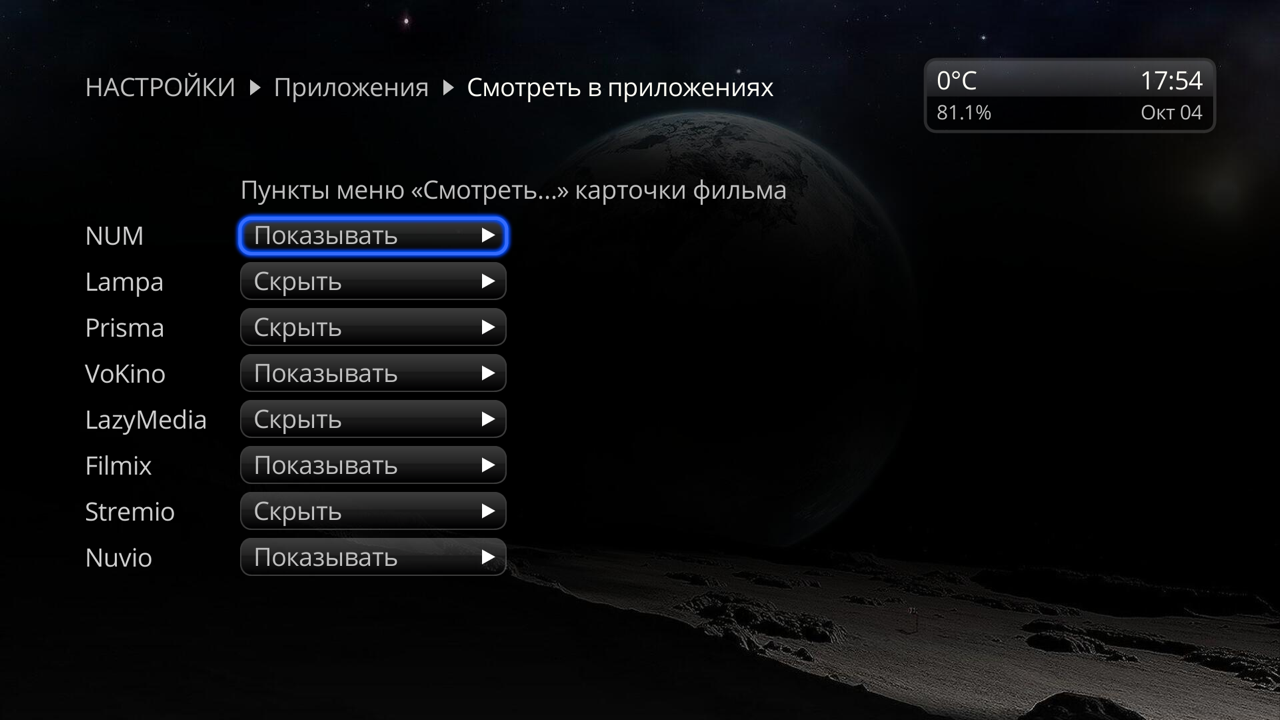
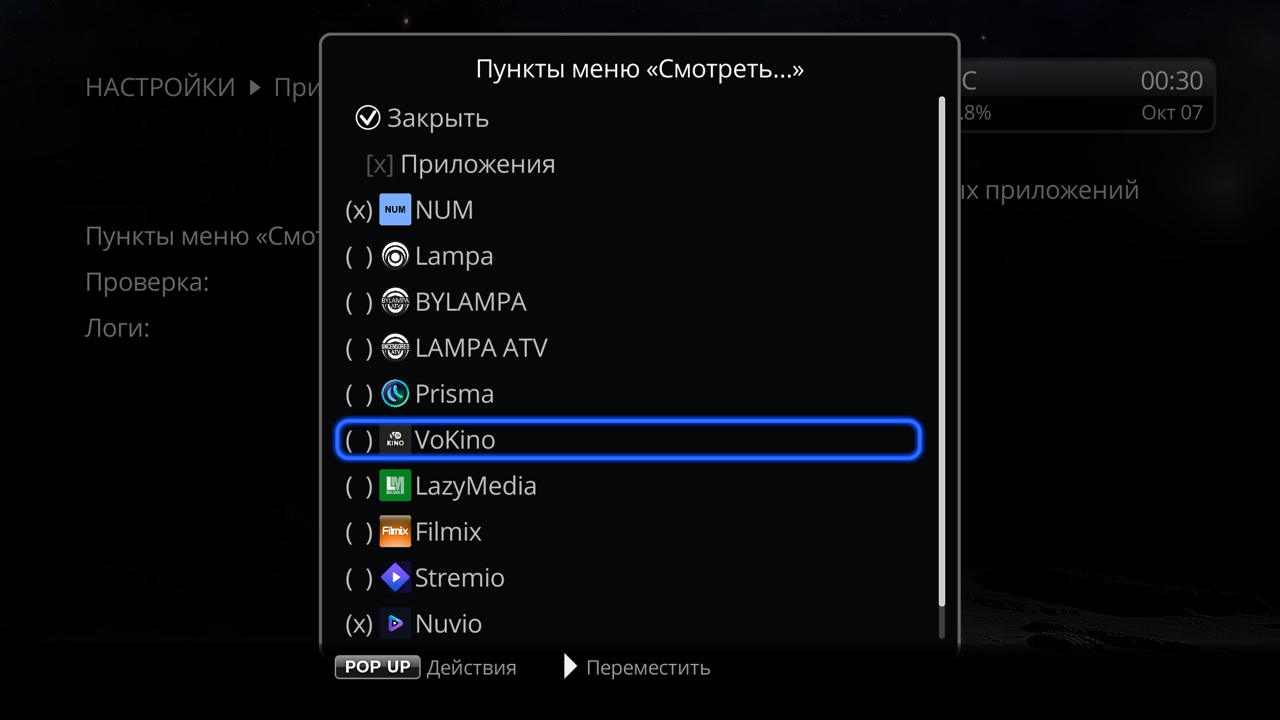
README: скриншот экрана 0.5.0 — диалог выбора пунктов

diff --git a/README.md b/README.md
@@ -6,7 +6,7 @@
 
 Плагин для Dune HD: добавляет пункты в меню **«Смотреть…»** карточки фильма или сериала в каталоге **«Фильмы»** Дюны. Каждый пункт открывает тот же фильм или сериал (или его поиск) в приложении для Android TV, а пункт Filmix — в плагине Дюны Filmix_API. Пункты появляются только для установленных приложений; любой можно скрыть на экране плагина **«Настройки» → «Приложения» → «Смотреть в приложениях»**.
 
-<img src="screenshots/play-menu.png" alt="Меню «Смотреть…» с пунктами плагина" width="49%"> <img src="screenshots/settings.png" alt="Экран плагина: показывать или скрыть пункт каждого приложения" width="49%">
+<img src="screenshots/play-menu.png" alt="Меню «Смотреть…» с пунктами плагина" width="49%"> <img src="screenshots/settings.png" alt="Экран плагина: выбор пунктов меню «Смотреть…»" width="49%">
 
 | Пункт меню | По какому ID открывает |
 |---|---|

diff --git a/README.en.md b/README.en.md
@@ -6,7 +6,7 @@
 
 A Dune HD plugin that adds items to the **Play...** menu of a movie or series card in the Dune **Movies** catalog. Each item opens the same title (or a search for it) in an Android TV app; the Filmix item opens it in the Filmix_API Dune plugin. Items appear only for installed apps; any of them can be hidden on the plugin screen, **Settings → Applications → Play in apps**.
 
-<img src="screenshots/play-menu.png" alt="Play... menu with the plugin items" width="49%"> <img src="screenshots/settings.png" alt="Plugin screen: show or hide the item of each app" width="49%">
+<img src="screenshots/play-menu.png" alt="Play... menu with the plugin items" width="49%"> <img src="screenshots/settings.png" alt="Plugin screen: choosing the Play... menu items" width="49%">
 
 | Menu item | Opens the title by |
 |---|---|
